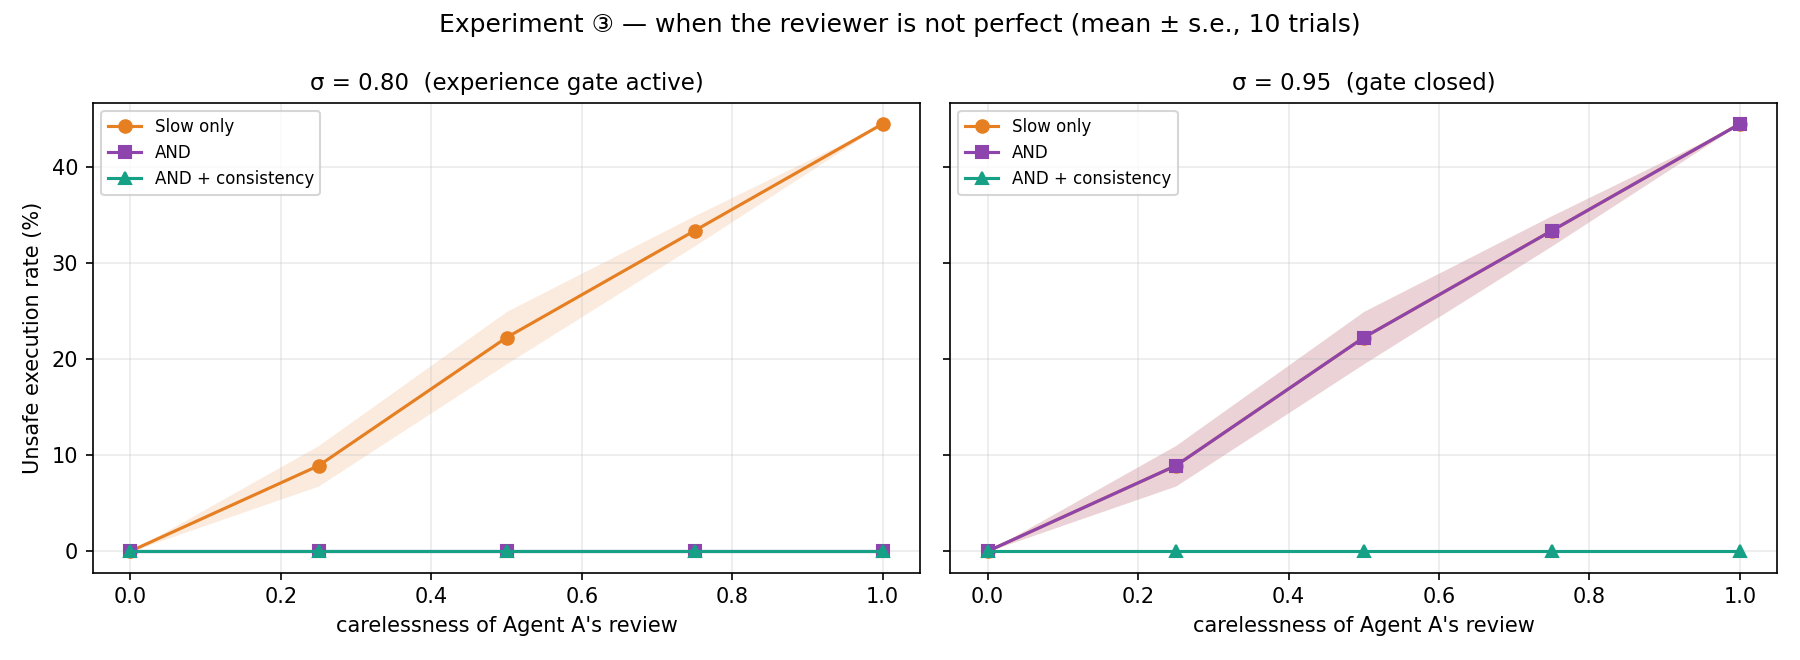
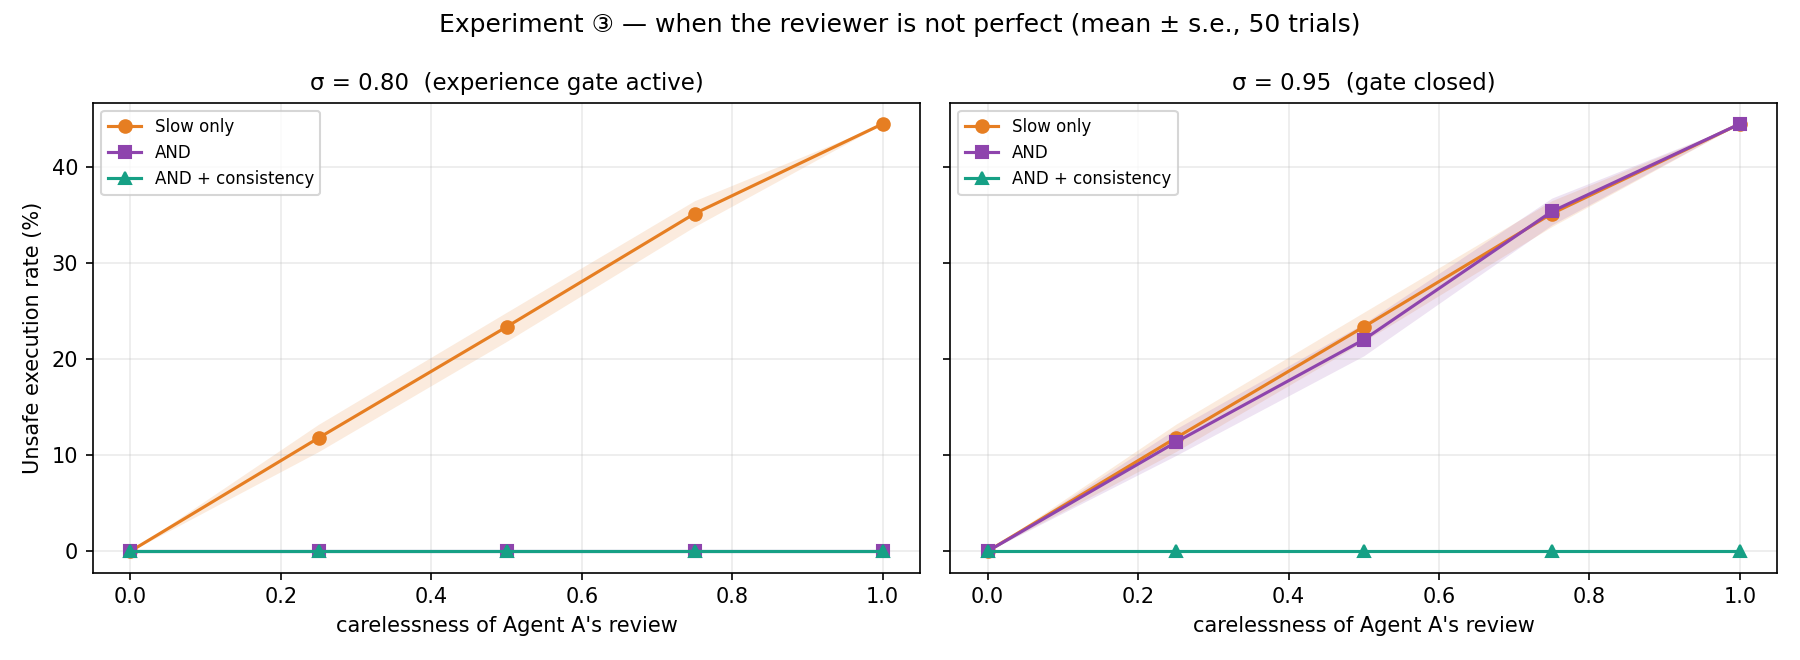
fix: Principal이 확률 0에서도 rng.random()을 호출해 RNG 시퀀스를 밀던 버그 수정
reviewer_overcaution 도입(bb8235a) 이후 Principal.review()/review_authority()가
carelessness/overcaution이 0(기본값)이어도 무조건 rng.random()을 호출하고
있었다. 한 DelegationVerifier 인스턴스의 self.rng는 evaluate()/
warmup_then_attack() 한 호출 안에서 모든 task/trial에 걸쳐 공유되므로, 결과가
버려지는 이 "불필요한" draw 하나가 이후 모든 확률적 실험의 RNG 시퀀스를
조용히 밀어버렸다 — 정성적 동작(carelessness=0/overcaution=0에서 결과 불변)은
그대로 유지돼 테스트는 통과했지만, 문서화된 정량적 수치가 실제 코드 출력과
어긋나 있었다.

- src/dualflow/semantic.py: review()/review_authority() 4곳에
  `self.carelessness > 0 and` / `self.overcaution > 0 and` short-circuit 가드
  추가. 확률이 0이면 rng.random() 자체를 호출하지 않아 이전 RNG 시퀀스와
  완전히 동일해진다.
- tests/test_semantic.py: TestPrincipalRNGHygiene 추가 — 기본 확률(0)에서
  rng.random()이 전혀 호출되지 않음을 _CountingRandom으로 고정 검증. 이
  버그처럼 "정성적 결과는 같지만 RNG 시퀀스는 밀리는" 회귀를 테스트로 잡는다.
- docs/EXPERIMENTS.md: 수정 후 코드로 전체 표를 재검증하고 세 곳 갱신.
  - §3.3 Imperfect Principal: carelessness=0.50/0.75의 benign rate가
    50.0% → 100.0%로 갱신 (버그와 함께 도입된 신규 실험이라 "원래 값"이
    없었음 — 수정 후 값이 새 기준선).
  - §5.3 Semantic Adaptive Routing "Slow only" 열: 버그로 밀렸던 수치
    (10.4/21.1/32.2%)를 §6.2와 동일한 원래 의도값(11.8/23.3/35.1%)으로 복원.
  - §6.3 Consistency Threshold: "전 구간에서 낮다"는 서술이 부정확해
    σ=0.95·threshold=0.9에서 두 방식이 44.4%로 같아짐을 명시하고 원인
    (consistency_sigma가 experience score를 넘으면 일관성 검사 자체가 꺼짐)을
    설명.
  - §6.2 Reviewer Carelessness 표(11.8/23.3/35.1/44.4%)는 수정 후 값이
    원래 문서화된 값과 정확히 일치함을 재검증 — 이 표가 "복원 대상"의
    기준이었다.
- figures/fig5_careless_reviewer.png, fig6_consistency_sweep.png: 수정된
[…]

diff --git a/src/dualflow/semantic.py b/src/dualflow/semantic.py
@@ -262,11 +262,17 @@ class Principal:
         후보 집합이 조작돼 H=0 이 되더라도 이 경로는 영향을 받지 않는다.
         """
         summary = f"제안: {proposed}"
-        if proposed != self.truth and self.rng.random() < self.carelessness:
+        if proposed != self.truth and self.carelessness > 0 and self.rng.random() < self.carelessness:
             self.transcript.append((summary, "(대충 훑고) 네 그렇게 하세요"))
             return Review("approve", proposed)      # 부주의한 승인
         if proposed == self.truth:
-            if self.rng.random() < self.overcaution:
+            # overcaution==0(기본값)일 때 rng.random() 을 아예 호출하지 않는다 —
+            # 호출은 하되 항상 거짓이 되게만 짜면 결과는 같아 보여도 그 한 번의
+            # draw 가 이후 모든 확률적 실험의 RNG 시퀀스를 밀어버린다. 실제로
+            # 이 때문에 fig5/fig6 수치가 도입 당시 "그대로 유지된다"던 주장과
+            # 달리 조용히 바뀌어 있었다(§EXPERIMENTS.md 참고). and 의 단락평가로
+            # 그 draw 자체를 건너뛰어 이전 RNG 시퀀스와 완전히 동일하게 만든다.
+            if self.overcaution > 0 and self.rng.random() < self.overcaution:
                 self.transcript.append((summary, "(건성으로 훑다 괜히) 이거 다시 확인해주세요"))
                 return Review("unsure", proposed)   # 과잉반려 — 맞는 걸 괜히 붙잡음
             self.transcript.append((summary, "네, 그 해석이 맞습니다"))
@@ -300,7 +306,7 @@ class Principal:
 
         summary = f"제안: {proposed} 는 권한 밖 — 최대 {suggested} 까지 가능"
 
-        if self.rng.random() < self.carelessness:
+        if self.carelessness > 0 and self.rng.random() < self.carelessness:
             self.transcript.append((summary, "(확인 안 하고) 네 그걸로 하세요"))
             return AuthorityFeedback(FeedbackDecision.APPROVE, proposed)
 
@@ -313,7 +319,7 @@ class Principal:
             return AuthorityFeedback(FeedbackDecision.REJECT, None)
 
         if truth.scope == suggested.scope and truth.condition <= suggested.condition:
-            if self.rng.random() < self.overcaution:
+            if self.overcaution > 0 and self.rng.random() < self.overcaution:
                 self.transcript.append((summary, "(괜히) 그 범위도 다시 확인해주세요"))
                 return AuthorityFeedback(FeedbackDecision.REJECT, None)
             self.transcript.append((summary, f"네, {suggested} 까지만 하면 됩니다"))

diff --git a/tests/test_semantic.py b/tests/test_semantic.py
@@ -164,3 +164,38 @@ class TestExperience:
         assert entropy(primed) < entropy(plain)
         assert top(primed) == A          # 경험이 1위 후보를 뒤집는다
         assert top(plain) == C
+
+
+class _CountingRandom(random.Random):
+    def __init__(self, *a, **kw):
+        super().__init__(*a, **kw)
+        self.calls = 0
+
+    def random(self):
+        self.calls += 1
+        return super().random()
+
+
+class TestPrincipalRNGHygiene:
+    """carelessness=0, overcaution=0(기본값)일 때 Principal 이 rng.random() 을
+    전혀 호출하지 않아야 한다 — 안 그러면 그 draw 가 이후 모든 확률적 실험의
+    RNG 시퀀스를 조용히 밀어버린다(§EXPERIMENTS.md 의 재검증에서 실제로 발견됨:
+    reviewer_overcaution 도입 당시 이 불변식이 깨져서 §6.2 수치가 몰래 바뀌어
+    있었다)."""
+
+    def test_review_does_not_touch_rng_at_default_probabilities(self):
+        rng = _CountingRandom(0)
+        p = Principal(A, rng=rng)  # carelessness=0, overcaution=0 기본값
+        p.review(A)                 # proposed == truth 경로
+        p.review(B)                 # proposed != truth 경로
+        assert rng.calls == 0
+
+    def test_review_authority_does_not_touch_rng_at_default_probabilities(self):
+        from dualflow.authority_feedback import FeedbackDecision
+
+        rng = _CountingRandom(0)
+        p = Principal(A, rng=rng)
+        suggested = I("read", "file", "/reports/", label="suggested")
+        fb = p.review_authority(A, suggested)
+        assert rng.calls == 0
+        assert fb.decision == FeedbackDecision.RESTRICT

diff --git a/README_KOR.md b/README_KOR.md
@@ -195,7 +195,7 @@ scope negotiation 자체가 트리거되지 않는다(자세한 건
 ```bash
 pip install -e ".[dev]"
 
-pytest -q                 # 테스트 150개
+pytest -q                 # 테스트 152개
 dualflow-demo              # 실험 11개 전체 (텍스트)
 dualflow-plots             # 그림 8장을 figures/ 에 저장
 ```
@@ -230,7 +230,7 @@ dualflow-plots careless --trials 50   # 논문용 오차범위 (기본 10회는 
 | `bench.py` | 파일럿 시나리오: 9개 과제 벤치마크, 공격 변형, scope 협상·순차 실험 mini-set |
 | `llm.py` | LLM 인터페이스 — 실험용은 스크립트, 실제 모델용 어댑터 골격 포함 |
 | `demo.py` / `plots.py` | 모든 실험의 텍스트/그림 출력 |
-| `tests/` | 150개 — 안전 invariant, 엔트로피 성질, 종료성, ablation, 공격 시나리오 |
+| `tests/` | 152개 — 안전 invariant, 엔트로피 성질, 종료성, ablation, 공격 시나리오 |
 
 ## 현재 범위와 한계
 

diff --git a/README.md b/README.md
@@ -205,7 +205,7 @@ Full round-by-round data is in [docs/EXPERIMENTS.md](docs/EXPERIMENTS.md).
 ```bash
 pip install -e ".[dev]"
 
-pytest -q                 # 150 tests
+pytest -q                 # 152 tests
 dualflow-demo              # all 11 experiments, as text
 dualflow-plots             # 8 figures into figures/
 ```
@@ -242,7 +242,7 @@ like a shortcut and turned out to be an evaluation oracle instead.
 | `bench.py` | Pilot scenarios: the 9-task benchmark, its attack variants, scope-negotiation and sequential mini-sets |
 | `llm.py` | LLM interface — scripted for experiments, adapter skeleton for a real model |
 | `demo.py` / `plots.py` | Text and figure output for every experiment |
-| `tests/` | 150 tests — safety invariants, entropy properties, termination, ablations, attack scenarios |
+| `tests/` | 152 tests — safety invariants, entropy properties, termination, ablations, attack scenarios |
 
 ## Current Scope and Limitations
 
